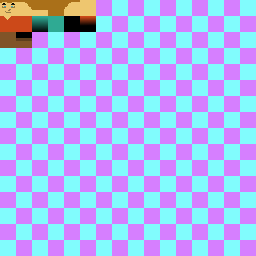
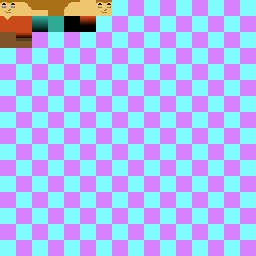
Add texture animation

Changed region(s): [[0.375, 0.0, 0.4375, 0.0625], [0.0625, 0.125, 0.125, 0.1562]]

diff --git a/web-src/src/app/game-engine/Character.ts b/web-src/src/app/game-engine/Character.ts
@@ -1,5 +1,6 @@
 import * as THREE from 'three';
 import * as DATA from '../game-engine/data';
+import * as G from '../game-engine/graphics';
 
 export class Character {
 
@@ -19,7 +20,7 @@ export class Character {
         // and making this json will return an object.
         loader.setResponseType('text');
         loader.load(pathToJson, (json) => {
-            var characterModel = JSON.parse(json);
+            var characterModel: DATA.CharacterModel = JSON.parse(json);
 
             this.buildFromData(characterModel);
         }, onProgress, onError);
@@ -41,7 +42,7 @@ export class Character {
                     ny: [5, 0],
                     py: [3, 0],
                     nz: [2, 0],
-                    pz: [0, 0]
+                    pz: [6, 0]
                 },
                 {
                     name: "body",
@@ -142,6 +143,7 @@ export class Character {
                     {
                         name: "lleg.position",
                         times: [0.0, 0.5, 1.0, 1.5, 2.0, 2.5, 3.0],
+                        interpolation: THREE.InterpolateLinear,
                         values: [
                             15, 15, 0,  //pivit
                             15, 15, -10,  //push                   
@@ -155,6 +157,7 @@ export class Character {
                     {
                         name: "rleg.position",
                         times: [0.0, 0.5, 1.0, 1.5, 2.0, 2.5, 3.0],
+                        interpolation: THREE.InterpolateLinear,
                         values: [
                             -15, 25, 0,   //lift           
                             -15, 25, 10,   //reach                         
@@ -168,6 +171,7 @@ export class Character {
                     {
                         name: "rarm.position",
                         times: [0.0, 0.75, 1.5, 2.25, 3.0],
+                        interpolation: THREE.InterpolateLinear,
                         values: [
                             -35, 50, 0,   //center
                             -35, 50, -10,   //back                         
@@ -179,6 +183,7 @@ export class Character {
                     {
                         name: "larm.position",
                         times: [0.0, 0.75, 1.5, 2.25, 3.0],
+                        interpolation: THREE.InterpolateLinear,
                         values: [
                             35, 50, 0,   //center
                             35, 50, 10,   //back                         
@@ -190,6 +195,7 @@ export class Character {
                     {
                         name: "head.position",
                         times: [0.0, 0.75, 1.5, 2.25, 3.0],
+                        interpolation: THREE.InterpolateLinear,
                         values: [
                             0, 95, 0,  //up
                             0, 90, 0,   //down
@@ -201,6 +207,7 @@ export class Character {
                     {
                         name: "rsholder.position",
                         times: [0.0, 0.75, 1.5, 2.25, 3.0],
+                        interpolation: THREE.InterpolateLinear,
                         values: [
                             -25, 70, 0,  //up
                             -25, 68, 0,   //down
@@ -212,12 +219,24 @@ export class Character {
                     {
                         name: "lsholder.position",
                         times: [0.0, 0.75, 1.5, 2.25, 3.0],
+                        interpolation: THREE.InterpolateLinear,
                         values: [
                             25, 68, 0,  //up
                             25, 70, 0,   //down
                             25, 68, 0,  //up
                             25, 70, 0,   //down
                             25, 68, 0,  //up
+                        ]
+                    },
+                    {
+                        name: "head.pz",
+                        times: [0.0, 2.5, 2.8, 3.0],
+                        interpolation: THREE.InterpolateDiscrete,
+                        values: [
+                            0,       //open
+                            6,       //close
+                            0,       //open   
+                            0        //open   
                         ]
                     }
                 ]
@@ -250,25 +269,21 @@ export class Character {
 
         model.meshes.forEach(meshData => {
 
-            var geo: THREE.BufferGeometry = this.buildCubeOffset(
+            var geo: G.CubeGeometry = new G.CubeGeometry(
                 meshData.offset,
                 meshData.nx,
                 meshData.px,
                 meshData.ny,
-                                meshData. py,
+                meshData.py,
                 meshData.nz,
                 meshData.pz
             );
                         
-            var mesh = new THREE.Mesh(geo, material);
-            mesh.name = meshData.name;
-            if(mesh.name == "head"){
-                console.log("head");
-                mesh
-            }
+            var mesh: G.CubeMesh = new G.CubeMesh(geo, material);
+            mesh.name = meshData.name;           
 
             mesh.position.set(meshData.position[0], meshData.position[1], meshData.position[2]);
-            mesh.scale.set(meshData.scale[0], meshData.scale[1], meshData.scale[2]);
+            mesh.scale.set(meshData.scale[0], meshData.scale[1], meshData.scale[2]);           
              
             // Add to root 
             this.root.add(mesh);
@@ -278,7 +293,7 @@ export class Character {
             model.clipes.forEach(clip => {
                 var tracks = new Array<THREE.KeyframeTrack>();
                 for (let track of clip.tracks) {
-                    var animationTrack = new THREE.KeyframeTrack(track.name, track.times, track.values, THREE.InterpolateLinear);
+                    var animationTrack = new THREE.KeyframeTrack(track.name, track.times, track.values, track.interpolation);
                     tracks.push(animationTrack);
                 }
                 this.animationClip = new THREE.AnimationClip(clip.name, clip.duration, tracks);
@@ -286,94 +301,7 @@ export class Character {
 
             this.mixer = new THREE.AnimationMixer(this.root);
 
-            this.walk();
-        
-    }
-
-    private buildCubeOffset(offset: number[],
-        nx: number[],
-        px: number[],
-        ny: number[],
-        py: number[],
-        nz: number[],
-        pz: number[])
-        : THREE.BufferGeometry {
-
-        var vertices = [
-            -0.5, 0.5, 0.5, 0.5, 0.5, 0.5, 0.5, -0.5, 0.5, -0.5, -0.5, 0.5,            //front
-            0.5, 0.5, 0.5, 0.5, 0.5, -0.5, 0.5, -0.5, -0.5, 0.5, -0.5, 0.5,            //Left
-            0.5, 0.5, -0.5, -0.5, 0.5, -0.5, -0.5, -0.5, -0.5, 0.5, -0.5, -0.5,        //Back
-            -0.5, 0.5, -0.5, -0.5, 0.5, 0.5, -0.5, -0.5, 0.5, -0.5, -0.5, -0.5,        //Right
-            -0.5, 0.5, -0.5, 0.5, 0.5, -0.5, 0.5, 0.5, 0.5, -0.5, 0.5, 0.5,            //Top
-            -0.5, -0.5, 0.5, 0.5, -0.5, 0.5, 0.5, -0.5, -0.5, -0.5, -0.5, -0.5         //Bottom
-        ];
-
-        //offset positions
-        for (var i = 0; i < vertices.length; i += 3) {
-            vertices[i] += offset[0];
-            vertices[i + 1] += offset[1];
-            vertices[i + 2] += offset[2];
-        }
-
-        var normals = [
-            0, 0, 1, 0, 0, 1, 0, 0, 1, 0, 0, 1,
-            1, 0, 0, 1, 0, 0, 1, 0, 0, 1, 0, 0,
-            0, 0, -1, 0, 0, -1, 0, 0, -1, 0, 0, -1,
-            -1, 0, 0, -1, 0, 0, -1, 0, 0, -1, 0, 0,
-            0, 1, 0, 0, 1, 0, 0, 1, 0, 0, 1, 0,
-            0, -1, 0, 0, -1, 0, 0, -1, 0, 0, -1, 0
-        ];
-        var s = 0.0625;
-        var tex1 = [
-            pz[0] * s, 1.0 - (pz[1] * s),
-            pz[0] * s + s, 1.0 - (pz[1] * s),
-            pz[0] * s + s, 1.0 - (pz[1] * s + s),
-            pz[0] * s, 1.0 - (pz[1] * s + s),
-
-            px[0] * s, 1.0 - (px[1] * s),
-            px[0] * s + s, 1.0 - (px[1] * s),
-            px[0] * s + s, 1.0 - (px[1] * s + s),
-            px[0] * s, 1.0 - (px[1] * s + s),
-
-            nz[0] * s, 1.0 - (nz[1] * s),
-            nz[0] * s + s, 1.0 - (nz[1] * s),
-            nz[0] * s + s, 1.0 - (nz[1] * s + s),
-            nz[0] * s, 1.0 - (nz[1] * s + s),
-
-            nx[0] * s, 1.0 - (nx[1] * s),
-            nx[0] * s + s, 1.0 - (nx[1] * s),
-            nx[0] * s + s, 1.0 - (nx[1] * s + s),
-            nx[0] * s, 1.0 - (nx[1] * s + s),
-
-            py[0] * s, 1.0 - (py[1] * s),
-            py[0] * s + s, 1.0 - (py[1] * s),
-            py[0] * s + s, 1.0 - (py[1] * s + s),
-            py[0] * s, 1.0 - (py[1] * s + s),
-
-            ny[0] * s, 1.0 - (ny[1] * s),
-            ny[0] * s + s, 1.0 - (ny[1] * s),
-            ny[0] * s + s, 1.0 - (ny[1] * s + s),
-            ny[0] * s, 1.0 - (ny[1] * s + s),
-
-        ]
-
-        var faces = [
-            0, 3, 1, 1, 3, 2,                   //Front
-            4, 7, 5, 7, 6, 5,                   //Left
-            8, 11, 9, 11, 10, 9,                //Back
-            12, 15, 13, 15, 14, 13,             //Right
-            16, 19, 17, 19, 18, 17,             //Top
-            20, 23, 21, 23, 22, 21              //Bottom
-        ]
-
-        // Load geometry
-        var geometry = new THREE.BufferGeometry();
-        geometry.setIndex(new THREE.BufferAttribute(new Uint16Array(faces), 1));
-        geometry.addAttribute('position', new THREE.BufferAttribute(new Float32Array(vertices), 3));
-        geometry.addAttribute('uv', new THREE.BufferAttribute(new Float32Array(tex1), 2));
-        geometry.addAttribute('normal', new THREE.BufferAttribute(new Float32Array(normals), 3));
-
-        return geometry;
+            this.walk();        
     }
 
     public walk() {
@@ -384,7 +312,7 @@ export class Character {
         action.loop = true;
         action.setLoop(THREE.LoopRepeat, Infinity);
         action.play();
-    }
+    }        
 
     public update(delta: number) {
         if (this.mixer != undefined)

diff --git a/web-src/src/app/game-engine/graphics.ts b/web-src/src/app/game-engine/graphics.ts
@@ -1,0 +1,108 @@
+import * as THREE from 'three';
+
+function calculateUV(x: number, y: number): number[] {
+   var s = 0.0625;
+   return [
+      x * s, 1.0 - (y * s),
+      x * s + s, 1.0 - (y * s),
+      x * s + s, 1.0 - (y * s + s),
+      x * s, 1.0 - (y * s + s)
+   ]
+}
+
+export class CubeGeometry extends THREE.BufferGeometry {
+
+    public constructor( offset: number[],
+      nx: number[],
+      px: number[],
+      ny: number[],
+      py: number[],
+      nz: number[],
+      pz: number[])
+    {
+        super();
+
+        var vertices = [
+         -0.5, 0.5, 0.5, 0.5, 0.5, 0.5, 0.5, -0.5, 0.5, -0.5, -0.5, 0.5,            //front
+         0.5, 0.5, 0.5, 0.5, 0.5, -0.5, 0.5, -0.5, -0.5, 0.5, -0.5, 0.5,            //Left
+         0.5, 0.5, -0.5, -0.5, 0.5, -0.5, -0.5, -0.5, -0.5, 0.5, -0.5, -0.5,        //Back
+         -0.5, 0.5, -0.5, -0.5, 0.5, 0.5, -0.5, -0.5, 0.5, -0.5, -0.5, -0.5,        //Right
+         -0.5, 0.5, -0.5, 0.5, 0.5, -0.5, 0.5, 0.5, 0.5, -0.5, 0.5, 0.5,            //Top
+         -0.5, -0.5, 0.5, 0.5, -0.5, 0.5, 0.5, -0.5, -0.5, -0.5, -0.5, -0.5         //Bottom
+      ];
+
+      //offset positions
+      for (var i = 0; i < vertices.length; i += 3) {
+         vertices[i] += offset[0];
+         vertices[i + 1] += offset[1];
+         vertices[i + 2] += offset[2];
+      }
+
+      var normals = [
+         0, 0, 1, 0, 0, 1, 0, 0, 1, 0, 0, 1,
+         1, 0, 0, 1, 0, 0, 1, 0, 0, 1, 0, 0,
+         0, 0, -1, 0, 0, -1, 0, 0, -1, 0, 0, -1,
+         -1, 0, 0, -1, 0, 0, -1, 0, 0, -1, 0, 0,
+         0, 1, 0, 0, 1, 0, 0, 1, 0, 0, 1, 0,
+         0, -1, 0, 0, -1, 0, 0, -1, 0, 0, -1, 0
+      ];
+
+      var tex1 = [];
+      calculateUV(pz[0], pz[1]).forEach(num => { tex1.push(num) });
+      calculateUV(px[0], px[1]).forEach(num => { tex1.push(num) });
+      calculateUV(nz[0], nz[1]).forEach(num => { tex1.push(num) });
+      calculateUV(nx[0], nx[1]).forEach(num => { tex1.push(num) });
+      calculateUV(py[0], py[1]).forEach(num => { tex1.push(num) });
+      calculateUV(ny[0], ny[1]).forEach(num => { tex1.push(num) });
+
+      var faces = [
+         0, 3, 1, 1, 3, 2,                   //Front
+         4, 7, 5, 7, 6, 5,                   //Left
+         8, 11, 9, 11, 10, 9,                //Back
+         12, 15, 13, 15, 14, 13,             //Right
+         16, 19, 17, 19, 18, 17,             //Top
+         20, 23, 21, 23, 22, 21              //Bottom
+      ]
+    
+      this.setIndex(new THREE.BufferAttribute(new Uint16Array(faces), 1));
+      this.addAttribute('position', new THREE.BufferAttribute(new Float32Array(vertices), 3));      
+      this.addAttribute('uv', new THREE.BufferAttribute(new Float32Array(tex1), 2));
+      this.addAttribute('normal', new THREE.BufferAttribute(new Float32Array(normals), 3));
+    }
+}
+
+export class CubeMesh extends THREE.Mesh {
+   private pzOffset: number = 8 * 0;
+   private pxOffset: number = 8 * 1;
+   private nzOffset: number = 8 * 2;
+   private nxOffset: number = 8 * 3;
+   private pyOffset: number = 8 * 4;
+   private nyOffset: number = 8 * 5;   
+
+   private rowCount = 16;
+
+   get pz () : number {
+
+        var geo: THREE.BufferGeometry = <THREE.BufferGeometry>this.geometry;
+        var uvAttribute : THREE.BufferAttribute = <THREE.BufferAttribute>geo.getAttribute("uv");
+        var xy = [uvAttribute.getX(this.pzOffset), uvAttribute.getY(this.pzOffset)];
+        var index = xy[1] * this.rowCount + xy[1];        
+        return index;
+   }
+
+   set pz(value: number)
+   {       
+       var x = Math.floor(value) % this.rowCount;
+       var y = Math.floor(value / this.rowCount);
+       //console.log("Setting pz " + value +" : " + x + ", " + y);
+       var values = calculateUV(x, y);
+       var geo: THREE.BufferGeometry = <THREE.BufferGeometry>this.geometry;
+       var uvAttribute : THREE.BufferAttribute = <THREE.BufferAttribute>geo.getAttribute("uv");
+       uvAttribute.needsUpdate = true;
+       uvAttribute.set(values, this.pzOffset);
+   }
+   
+   public constructor(geometry: CubeGeometry, material: THREE.Material) {      
+      super(geometry, material);
+   }
+}

diff --git a/web-src/src/app/game-engine/data.ts b/web-src/src/app/game-engine/data.ts
@@ -4,6 +4,7 @@ export class KeyFrameTrack {
     name: string;
     times: number[];
     values: number[];
+    interpolation: THREE.InterpolationModes;
 }
 
 export class AnimationClip {    
